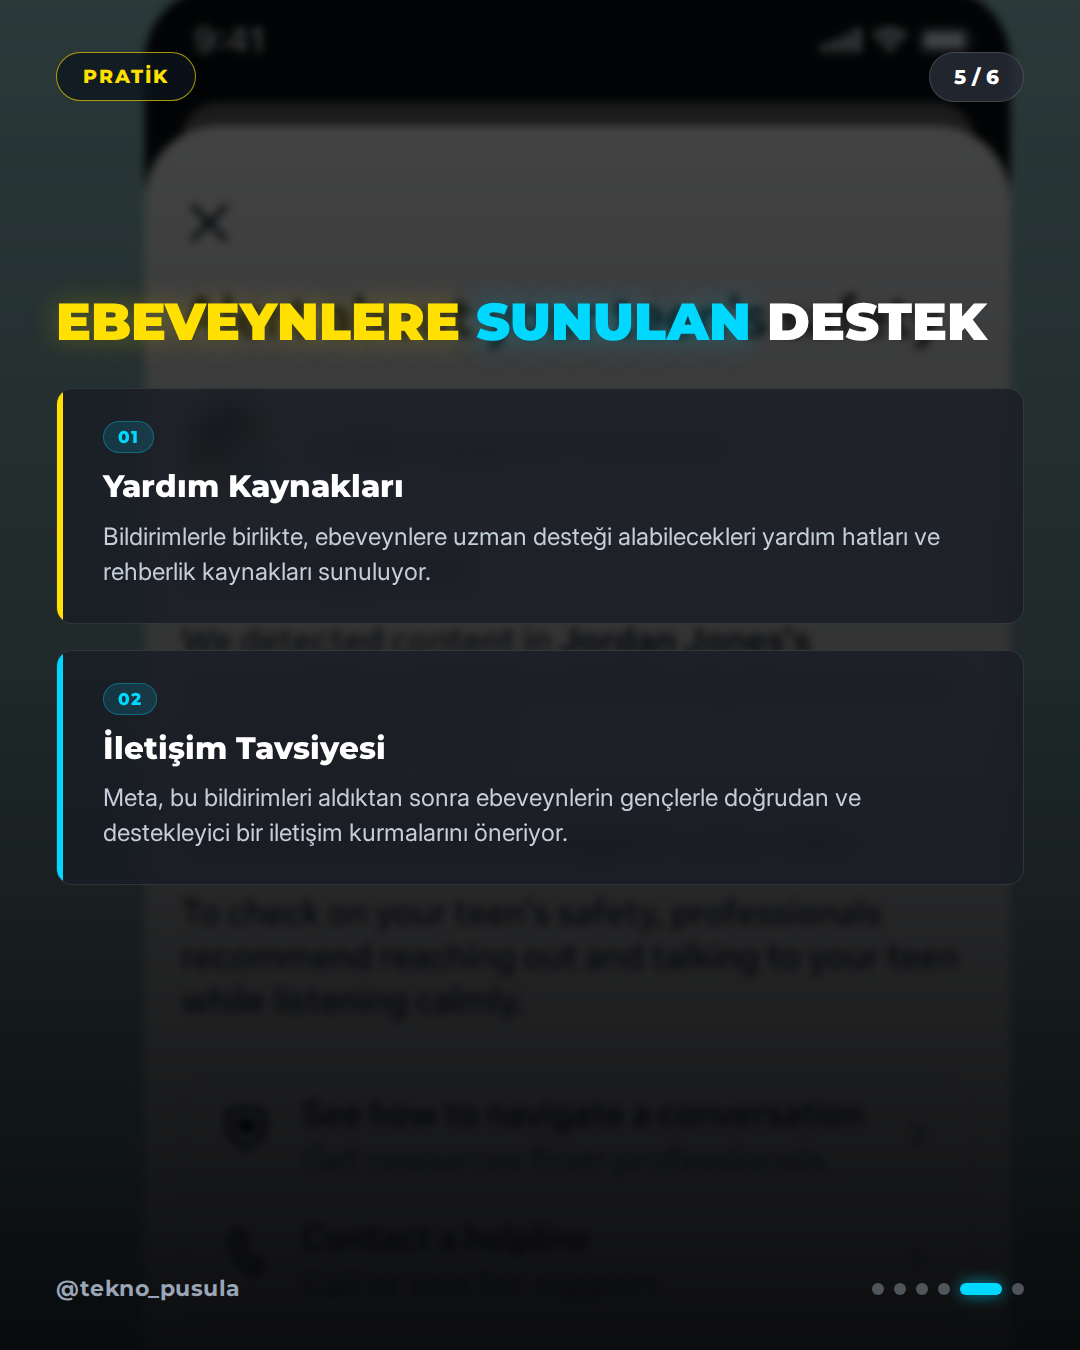
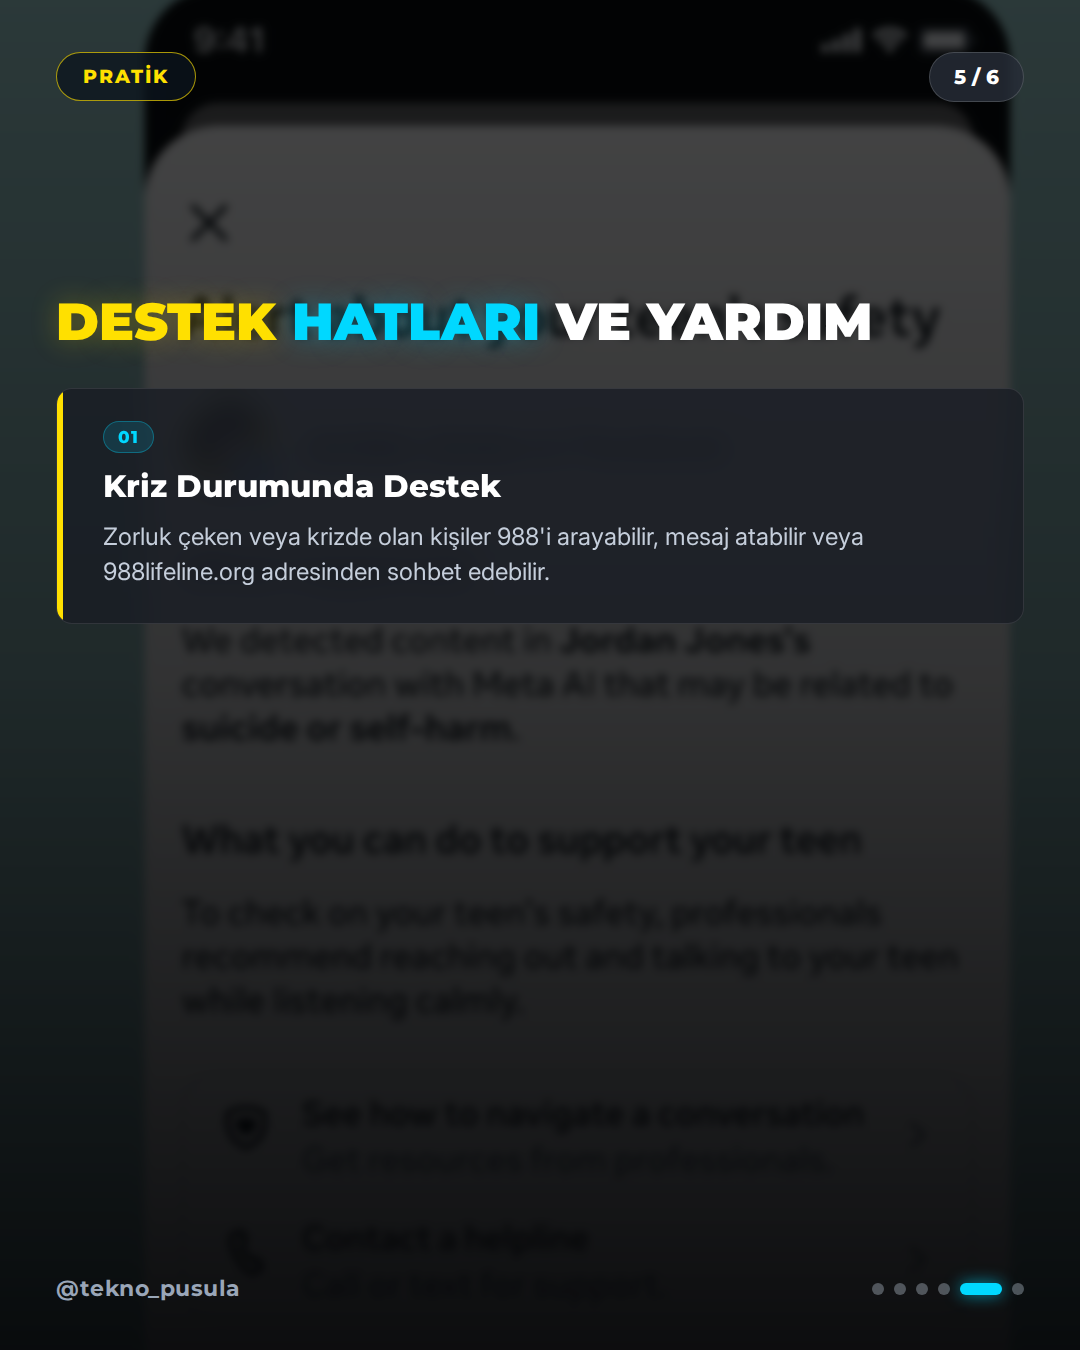
🤖 post: 2026-10-29 18:00 – Meta will now alert parents if teens 'repeatedly' search for

diff --git a/output/2026-10-29/04-1800-meta-will-now-alert-parents-if-teens-repeatedly/captions.md b/output/2026-10-29/04-1800-meta-will-now-alert-parents-if-teens-repeatedly/captions.md
@@ -2,36 +2,52 @@
 
 ## INSTAGRAM
 
-Meta, dijital dünyada gençler için güvenlik önlemlerini artırıyor! 🛡 Gençlerin internetteki güvenliğini ön planda tutan Meta, intihar veya kendine zarar verme eğilimi içeren aramalar yapıldığında ebeveynleri bilgilendirecek yeni bir sistem başlattı. Bu özellik, gençlerin tekrarlayan riskli aramalar yapması veya Meta AI ile bu yönde sohbetler gerçekleştirmesi durumunda devreye giriyor. Sistem, ebeveynlere bildirim göndererek onları bilgilendiriyor. Gizlilik gereği, yapılan spesifik aramaların içeriği paylaşılmıyor; bunun yerine ebeveynlere uzman desteği alabilecekleri rehberlik kaynakları sunuluyor. Meta, bu bildirimlerin ardından ebeveynlerin gençlerle destekleyici bir iletişim kurmasını öneriyor. Dijital güvenlik konusunda ebeveynlerin daha fazla bilgilendirilmesini destekliyor musunuz? Kaynak: Meta Newsroom, Engadget, Ars Technica
+Meta'dan gençlerin güvenliği için önemli bir adım! Facebook hesaplarını denetleyen ebeveynler artık riskli durumlarda anında bildirim alacak. Gençlerin kendine zarar verme aramaları veya Meta AI sohbetlerindeki riskli durumlar ebeveynlere bildirilecek. Gizlilik sınırları korunurken gençlerin korunması amaçlanıyor. Bu yeni güvenlik önlemleri hakkında ne düşünüyorsunuz?
 
-#DijitalEbeveynlik #Meta #Güvenliİnternet #GençlikVeTeknoloji #SosyalMedyaGüvenliği #EbeveynKontrolü #DigitalParenting #OnlineSafety
+Kaynak: Meta Newsroom
+
+#Meta #Güvenlik #EbeveynKontrolü #SosyalMedya #Teknoloji #Gençler #ParentalControl #Safety
 
 ## TIKTOK
 
-Meta'dan gençler için kritik güvenlik adımı! 🛡 Gençler intihar veya kendine zarar verme içerikli aramalar yaptığında, sistem artık ebeveynleri bilgilendirecek. Bu özellik, Meta AI sohbetlerini de kapsıyor. Gizlilik korunarak, ebeveynlere uzman desteği kaynakları sunuluyor. Dijital güvenlikte yeni dönem başladı. Detaylar için takipte kalın! Kaynak: Meta Newsroom, Engadget, Ars Technica
+Meta'dan gençler için yeni güvenlik bildirimleri! Ebeveynler artık riskli durumlarda anında uyarılacak. Detaylar profilde!
 
-#DijitalGüvenlik #Meta #Ebeveynlik #TeknolojiHaberleri
+Kaynak: Meta Newsroom
+
+#Meta #Teknoloji #Güvenlik #Keşfet
 
 ## X
 
-Meta, gençlerin güvenliği için yeni bir adım attı: İntihar veya kendine zarar verme eğilimi içeren aramalarda ebeveynlere bildirim gönderilecek. Sistem, gizliliği koruyarak uzman desteği kaynakları sunuyor. Detaylar: Meta Newsroom, Engadget, Ars Technica.
+Meta, Facebook'ta gençlerin güvenliği için ebeveyn bildirimlerini genişletti. Kendine zarar verme aramaları ve riskli AI sohbetleri ebeveynlere bildirilecek.
 
-#DijitalGüvenlik #Meta
+Kaynak: Meta Newsroom
+
+#Meta #Teknoloji
 
 ## THREADS
 
-Meta'dan Gençler İçin Yeni Güvenlik Adımı 🛡 Meta, gençlerin intihar ve kendine zarar verme içerikli aramalarıyla ilgili ebeveyn bildirimlerini genişletiyor. Sistem, tekrarlayan riskli aramalarda veya Meta AI ile yapılan benzer sohbetlerde devreye giriyor. Bildirimler içeriği paylaşmadan, ebeveynlere uzman desteği kaynakları sunuyor. Dijital güvenlik konusunda ebeveynlerin daha fazla bilgilendirilmesini destekliyor musunuz? 💭 Kaynak: Meta Newsroom, Engadget, Ars Technica
+Meta'dan Gençler İçin Yeni Ebeveyn Bildirimleri 📱
 
-#DijitalEbeveynlik
+Facebook hesaplarında gençlerin kendine zarar verme aramaları veya riskli Meta AI sohbetleri artık ebeveynlere bildirilecek. Gizlilik sınırları korunarak kriz anlarında destek sağlanması amaçlanıyor.
+
+Bu yeni önlem hakkında ne düşünüyorsunuz? 💭
+
+Kaynak: Meta Newsroom
+
+#Meta
 
 ## LINKEDIN
 
-Dijital dünyada gençlerin güvenliği, teknoloji şirketlerinin öncelikli gündem maddelerinden biri olmaya devam ediyor. Meta, bu alanda önemli bir adım atarak, genç kullanıcıların intihar veya kendine zarar verme eğilimi içeren arama davranışlarını tespit eden yeni bir bildirim sistemini devreye aldı. Sistem, kısa sürede tekrarlayan riskli aramalar veya Meta AI ile gerçekleştirilen benzer içerikli etkileşimler durumunda ebeveynleri bilgilendiriyor. Bu süreçte gizlilik prensipleri korunarak, spesifik arama veya sohbet içerikleri paylaşılmıyor; bunun yerine ebeveynlere profesyonel destek ve rehberlik kaynakları sağlanıyor. Teknoloji dünyasının bu tür güvenlik odaklı geliştirmeleri, dijital ebeveynlik süreçlerinde proaktif bir yaklaşımı destekliyor. Sizce bu tür sistemler, gençlerin dijital refahını korumada ne kadar etkili olabilir? Kaynak: Meta Newsroom, Engadget, Ars Technica
+Meta, dijital platformlarda gençlerin güvenliğini artırmak amacıyla ebeveyn bildirim mekanizmalarını genişletiyor. Facebook üzerinde gençlerin kendine zarar verme eğilimine işaret eden arama ve Meta AI sohbetleri, belirlenen iletişim kanalları üzerinden ebeveynlere bildirilecek. Gizlilik esasları korunarak geliştirilen bu özellik, teknoloji sektöründe güvenli kullanım standartlarının önemini bir kez daha ortaya koyuyor.
 
-#DijitalGüvenlik #Meta #Teknoloji #Ebeveynlik #DijitalRefah
+Kaynak: Meta Newsroom
+
+#Meta #Teknoloji #SiberGüvenlik #DijitalGüvenlik
 
 ## FACEBOOK
 
-Meta, gençlerin dijital dünyadaki güvenliğini artırmak için yeni bir adım attı! 🛡 Artık gençler intihar veya kendine zarar verme eğilimi içeren aramalar yaptığında veya Meta AI ile bu yönde sohbetler gerçekleştirdiğinde, ebeveynlere bildirim gönderilecek. Sistem, gizliliği koruyarak ebeveynlere uzman desteği alabilecekleri rehberlik kaynakları sunuyor. Meta, bu bildirimlerin ardından ebeveynlerin gençlerle doğrudan ve destekleyici bir iletişim kurmalarını öneriyor. Dijital güvenlik konusunda ebeveynlerin daha fazla bilgilendirilmesini destekliyor musunuz? Kaynak: Meta Newsroom, Engadget, Ars Technica
+Meta'dan gençlerin güvenliği için yeni ebeveyn bildirimleri! Facebook'ta gençlerin denetimli hesapları için genişletilen bu özellik sayesinde, kendine zarar verme aramaları veya riskli Meta AI sohbetleri ebeveynlere bildirilecek. Gizlilik sınırları gözetilerek tasarlanan bu sistem hakkında ne düşünüyorsunuz?
 
-#DijitalEbeveynlik #Meta #Güvenliİnternet #EbeveynKontrolü
+Kaynak: Meta Newsroom
+
+#Meta #Güvenlik #Teknoloji #EbeveynKontrolü

diff --git a/output/2026-10-29/04-1800-meta-will-now-alert-parents-if-teens-repeatedly/verification.md b/output/2026-10-29/04-1800-meta-will-now-alert-parents-if-teens-repeatedly/verification.md
@@ -3,20 +3,20 @@
 **Haber:** Meta will now alert parents if teens 'repeatedly' search for self-harm content on Facebook
 **Canonical URL:** https://www.engadget.com/2301410/meta-will-now-alert-parents-if-teens-repeatedly-search-for-self-harm-content-on-facebook/
 **Kaynaklar:** Engadget, Meta Newsroom (resmi alternatif), Ars Technica, NVIDIA Newsroom
-**Kontrol zamanı:** 2026-10-29T21:24:19+03:00
+**Kontrol zamanı:** 2026-10-29T21:32:29+03:00
 **Sonuç:** ✅ YAYINLANABİLİR
 
 ---
 
 ## İddia Bazlı Sonuçlar
 
-### 1. Meta is expanding its parental notifications to parents who supervise teens with Facebook accounts regarding searches for suicide and self-harm.
+### 1. Meta is expanding its parental notifications to parents who supervise teens with Facebook accounts.
 - **Karar:** ✅ `supported`
 - **Kanıtlar:**
   - [https://www.engadget.com/2301410/meta-will-now-alert-parents-if-teens-repeatedly-search-for-self-harm-content-on-facebook/](https://www.engadget.com/2301410/meta-will-now-alert-parents-if-teens-repeatedly-search-for-self-harm-content-on-facebook/)
-    > Meta is now expanding its parental notifications that appear when teens search for content related to suicide and self-harm. After adding the alerts to Instagram earlier this year, the company is now rolling out similar capabilities to parents who supervise teens with Facebook accounts
+    > the company is now rolling out similar capabilities to parents who supervise teens with Facebook accounts, as well as chats with its AI assistant.
   - [https://www.engadget.com/2301410/meta-will-now-alert-parents-if-teens-repeatedly-search-for-self-harm-content-on-facebook/](https://www.engadget.com/2301410/meta-will-now-alert-parents-if-teens-repeatedly-search-for-self-harm-content-on-facebook/)
-    > After adding the alerts to Instagram earlier this year, the company is now rolling out similar capabilities to parents who supervise teens with Facebook accounts, as well as chats with its AI assistant.
+    > Meta is now expanding its parental notifications that appear when teens search for content related to suicide and self-harm. After adding the alerts to Instagram earlier this year, the company is now rolling out similar capabilities to parents who supervise teens with Facebook accounts
 
 ### 2. Meta will notify parents if their teen repeatedly searches for self-harm content within a short period of time.
 - **Karar:** ✅ `supported`
@@ -30,7 +30,7 @@
   - [https://www.engadget.com/2301410/meta-will-now-alert-parents-if-teens-repeatedly-search-for-self-harm-content-on-facebook/](https://www.engadget.com/2301410/meta-will-now-alert-parents-if-teens-repeatedly-search-for-self-harm-content-on-facebook/)
     > Likewise, if a teen chats with Meta AI in a way that "suggests they may be at risk of suicide or self-harm," parents will also be notified.
 
-### 4. Parents receive an alert via text, email, WhatsApp, or a push notification in their own app when a teen meets the notification threshold.
+### 4. Parents receive alerts via text, email, WhatsApp, or a push notification in their own app.
 - **Karar:** ✅ `supported`
 - **Kanıtlar:**
   - [https://www.engadget.com/2301410/meta-will-now-alert-parents-if-teens-repeatedly-search-for-self-harm-content-on-facebook/](https://www.engadget.com/2301410/meta-will-now-alert-parents-if-teens-repeatedly-search-for-self-harm-content-on-facebook/)
@@ -42,11 +42,17 @@
   - [https://www.engadget.com/2301410/meta-will-now-alert-parents-if-teens-repeatedly-search-for-self-harm-content-on-facebook/](https://www.engadget.com/2301410/meta-will-now-alert-parents-if-teens-repeatedly-search-for-self-harm-content-on-facebook/)
     > The alerts don't detail the specific search terms or contents of Meta AI chats, but recommend that parents speak with their teens.
 
-### 6. The feature includes providing resources for helplines and recommending that parents speak with their teens.
+### 6. The feature is part of Meta's push to enroll teens into parent-supervised teen accounts.
 - **Karar:** ✅ `supported`
 - **Kanıtlar:**
   - [https://www.engadget.com/2301410/meta-will-now-alert-parents-if-teens-repeatedly-search-for-self-harm-content-on-facebook/](https://www.engadget.com/2301410/meta-will-now-alert-parents-if-teens-repeatedly-search-for-self-harm-content-on-facebook/)
-    > The alerts don't detail the specific search terms or contents of Meta AI chats, but recommend that parents speak with their teens. It also provides resources for helplines.
+    > The feature is part of Meta's push to enroll teens into parent-supervised "teen accounts" that give caregivers more control over teens' privacy settings.
+
+### 7. People struggling or in crisis can call or text 988 or chat at 988lifeline.org
+- **Karar:** ✅ `supported`
+- **Kanıtlar:**
+  - [https://www.engadget.com/2301410/meta-will-now-alert-parents-if-teens-repeatedly-search-for-self-harm-content-on-facebook/](https://www.engadget.com/2301410/meta-will-now-alert-parents-if-teens-repeatedly-search-for-self-harm-content-on-facebook/)
+    > If you or someone you know is struggling or in crisis, help is available. Call or text 988 or chat 988lifeline.org
 
 ---
 
@@ -57,9 +63,10 @@
 | Meta is expanding its parental notifications to parents who  | supported | supported | supported |
 | Meta will notify parents if their teen repeatedly searches f | supported | supported | supported |
 | Parents will be notified if a teen chats with Meta AI in a w | supported | supported | supported |
-| Parents receive an alert via text, email, WhatsApp, or a pus | supported | supported | supported |
+| Parents receive alerts via text, email, WhatsApp, or a push  | supported | supported | supported |
 | The alerts do not detail the specific search terms or conten | supported | supported | supported |
-| The feature includes providing resources for helplines and r | supported | supported | supported |
+| The feature is part of Meta's push to enroll teens into pare | supported | supported | supported |
+| People struggling or in crisis can call or text 988 or chat  | supported | supported | supported |
 
 ## Kaynak Metinleri
 
